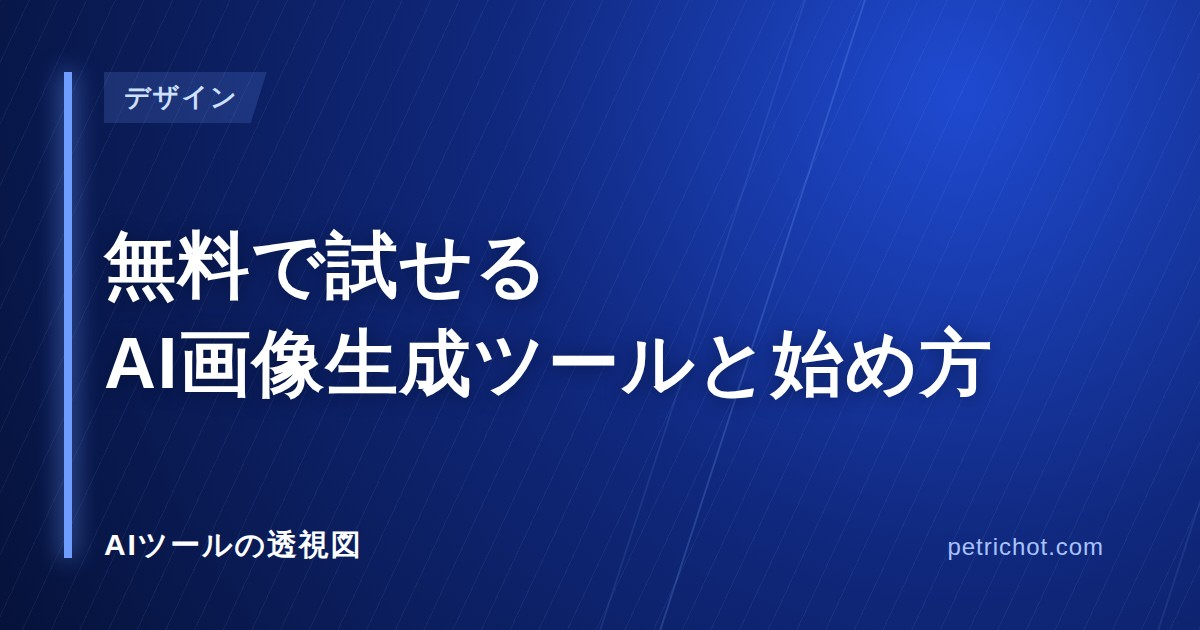
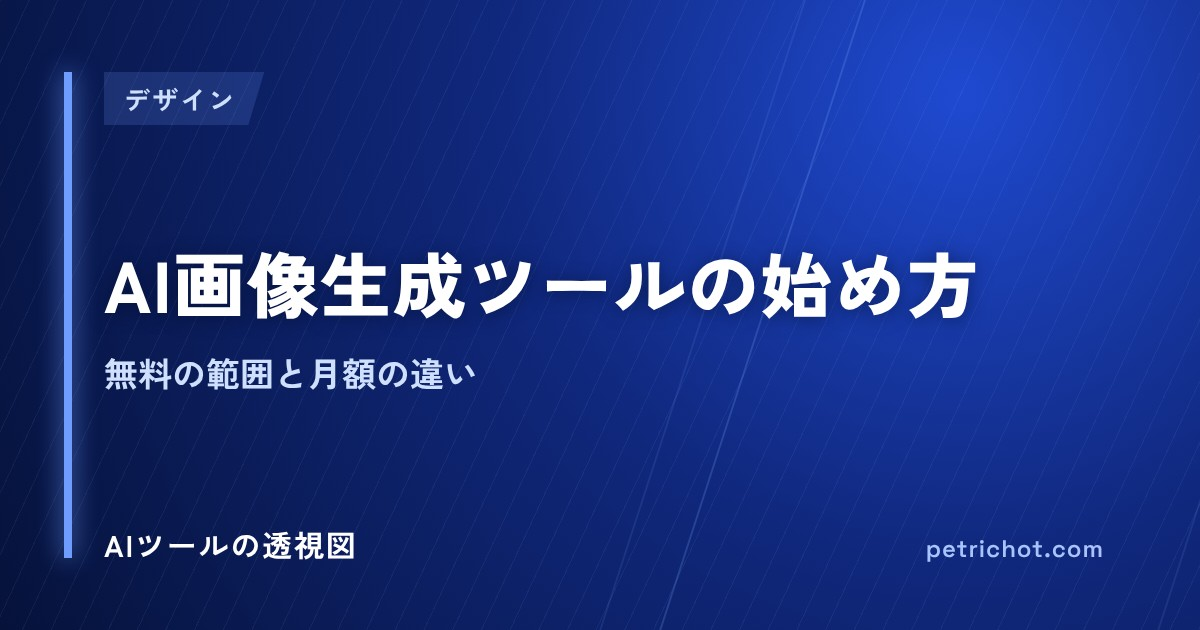
update: 「AI画像生成ツールの始め方｜無料の範囲と月額の違い」を更新(事実確認:ConoHa AI Canvasを無料で試せるツールとして扱っていた前提を修正し、タイトルも実態に合わせて変更)
旧タイトル「無料で試せるAI画像生成ツールと始め方」。slugは維持。OGP画像を作り直し、
他記事のリンクテキストも新タイトルにそろえた。

Claude-Session: https://claude.ai/code/session_01XMqZdQHkJM2VNmqCkBvbz3

diff --git a/affiliate/content/muryou-ai-gazou-seisei.md b/affiliate/content/muryou-ai-gazou-seisei.md
@@ -1,53 +1,64 @@
 ---
-title: 無料で試せるAI画像生成ツールと始め方
-description: AI画像生成を試したい初心者向けに、無料で試せるツール選びと始め方を解説。ConoHa AI CanvasやCanvaの使い方、プロンプトのコツ、注意点をカバー。
+title: AI画像生成ツールの始め方｜無料の範囲と月額の違い
+description: AI画像生成を費用を抑えて試したい初心者向けに、無料の範囲を自分で確かめる手順と、月額で使うサービスとの違い、プロンプトのコツ、注意点を整理します。
 slug: muryou-ai-gazou-seisei
 date: 2026-08-03
-updated: 2026-08-02
+updated: 2026-10-20
 category: デザイン
 tags: [AI画像生成, 無料, 初心者, ツール比較]
 ---
 
-AI技術の発展にともなって、テキストの指示(プロンプト)から画像を自動生成するツールが身近になりました。SNSで話題のAI画像生成を試してみたいけれど、お金をかけずに始めたいと考えている人も多いのではないでしょうか。この記事では、お金をかけずに試しやすいAI画像生成ツールの選び方と、始めるときの手順・注意点を整理します。
+AI技術の発展にともなって、テキストの指示(プロンプト)から画像を自動生成するツールが身近になりました。SNSで話題のAI画像生成を試してみたいけれど、お金をかけずに始めたいと考えている人も多いのではないでしょうか。この記事では、費用を抑えて試すための考え方と、「無料で試せるもの」と「月額で使うもの」を分けて確かめる手順、始めるときの注意点を整理します。
 
 ## 「無料で試せるか」を調べるときの注意点
 
-先に大事な前提をお伝えします。AI画像生成サービスの料金体系や無料で試せる範囲は、**サービス側の判断で頻繁に変わります**。「去年は無料で使えた」という情報が今も正しいとは限りません。
+先に大事な前提をお伝えします。AI画像生成サービスの料金体系や無料で試せる範囲は、**サービス側の判断で頻繁に変わります**。「去年は無料で使えた」という情報が今も正しいとは限りません。しかも、解説サイトごとに無料枠の回数が食い違っていることも珍しくありません。
 
-そのためこの記事では、金額や無料枠の回数といった具体的な条件は書きません。代わりに「初期費用をかけずに始めやすい=専用ソフトや高性能なパソコンを用意しなくても試せる」という観点でツールを紹介します。実際に無料で試せるかどうか、その条件がどうなっているかは、**必ず各公式サイトで今の情報を確認してください**。ここを確認せずに使い始めると、想定外の課金につながることがあります。
+そのためこの記事では、金額や無料枠の回数といった具体的な条件は書きません。実際に無料で試せるかどうか、その条件がどうなっているかは、**必ず各公式サイトで今の情報を確認してください**。ここを確認せずに使い始めると、想定外の課金につながることがあります。
 
-## ブラウザで始めやすいAI画像生成ツール
+確認するときは、次の3点を見ておくと迷いにくくなります。
 
-### ConoHa AI Canvas — ブラウザで手軽に始める
+- 無料のプランや体験が、公式サイトに明記されているか
+- 無料の範囲に、回数や期間の上限があるか(月ごとなのか、通算なのか)
+- 有料に切り替わるとき、自動で課金されないか
 
-ConoHa AI Canvasは、日本のレンタルサーバー企業が提供するAI画像生成サービスです。ブラウザから直接アクセスでき、インストールが不要な点が初心者向けです。
+## 無料で試せるものと、月額で使うものを分ける
 
-このツールの特徴:
-- ブラウザだけで使用可能
-- 日本語プロンプトに対応
-- 直感的なインターフェース
+この記事で取り上げる2つのサービスは、性格がかなり違います。同じ「ブラウザで使える画像生成」として並べると誤解のもとなので、ここで分けて整理します。
 
-日本語の指示文をそのまま打ち込んで画像生成の精度を試したい人に向いています。翻訳を挟まずに思いついた言葉をそのまま試せるので、プロンプトの言い回しを調整しながら詰めていく作業がしやすいのが利点です。一方で、生成した画像をそのまま資料やSNS投稿の完成形に仕上げたい場合は、文字入れやレイアウト調整を別のツールで行う必要があります。
+| 区分 | サービス | 無料での扱い |
+|---|---|---|
+| 無料の範囲がある可能性があるもの | Canva | AI画像生成を含め、無料プランで使える範囲があるとする解説は多いが、回数や期間の条件は情報源ごとに食い違っており、確認できていない |
+| 月額プランで使うもの | ConoHa AI Canvas | 時間枠つきの月額プランで提供されるクラウドサービス。公式の無料プランや無料体験は、調べた範囲では確認できていない |
 
-最新の機能や料金については、公式サイトでご確認ください。
+### Canva — 無料の範囲は公式で確かめる
 
-{{aff:conoha-ai-canvas}}
+Canvaは本来、デザインツールとして知られていますが、AI画像生成の機能も使えます。既存のテンプレートと組み合わせることで、画像生成から文字入れ・レイアウトまでを1つの画面で進められます。
 
-### Canva — テンプレートと組み合わせる
+使うメリットとして挙げられるのは次の点です。
 
-Canvaは本来、デザインツールとして知られていますが、AI画像生成機能を搭載しています。既存のテンプレートと組み合わせることで、より実践的なデザインが作成できます。
-
-Canvaを使う際のメリット:
 - デザインテンプレートが豊富
 - 生成した画像をそのままレイアウトに組み込める
 
-すでに完成形(SNS投稿、チラシ、資料の表紙など)をイメージしていて、画像生成から文字入れ・レイアウトまでを1つの画面で完結させたい人に向いています。逆に、画像生成そのものの精度や、細かいニュアンスまでプロンプトが通るかどうかを重視したい場合は、専用の生成ツールのほうが試行錯誤しやすいことがあります。
+すでに完成形(SNS投稿、チラシ、資料の表紙など)をイメージしていて、一つの画面で仕上げまで済ませたい人に向いています。逆に、画像生成そのものの精度や、細かいニュアンスまでプロンプトが通るかどうかを重視したい場合は、専用の生成ツールのほうが試行錯誤しやすいことがあります。
 
-料金体系や無料枠の詳細は、公式サイトで最新情報をご確認ください。
+無料で何回まで画像を生成できるかについては、月ごとの上限とする解説と、通算の上限とする解説があり、数字も一致していません。Canva公式のヘルプでは操作手順は確認できても、回数の上限までは確認できませんでした。そのため、この記事では回数を書きません。アプリ内の表示や公式の料金ページで、自分のアカウントの条件を確認してください。
 
 {{aff:canva}}
 
-どちらを試すか迷ったら、目的で切り分けると選びやすくなります。日本語のプロンプトをそのまま書いて画像そのものの精度を試したいならConoHa AI Canvasから、テンプレートと組み合わせて仕上げまで一括で済ませたいならCanvaから始めるのが実務的な判断基準です。どちらも無料の範囲で試せるかは変わりうるので、公式サイトで確認しながら両方触ってみて、自分の作業の流れに合うほうを残す進め方でかまいません。
+### ConoHa AI Canvas — 月額プランで使うクラウドサービス
+
+ConoHa AI Canvasは、GMOインターネットグループが提供する画像生成のクラウドサービスです。ブラウザからアクセスして使えるため、高性能なパソコンを自分で用意しなくても試せる点が特徴です。詳しい仕組みは[ConoHa AI Canvasの紹介記事](/conoha-ai-canvas-gazou-seisei/)にまとめています。
+
+ただし、料金は月額のプランに利用時間の枠が付く仕組みで提供されていると報じられており、この記事を書いた時点で、公式の無料プランや無料体験は確認できていません。会員向けのクーポンが配られた例は見つかりましたが、特定の会員向けの特典であって、誰でも使える無料枠ではありません。そのため、ConoHa AI Canvasは「無料で試せるツール」としては扱わず、「費用がかかる前提で、公式サイトでプランを確かめてから試すもの」として紹介します。
+
+最新の機能や料金、無料のお試しの有無は、公式サイトでご確認ください。
+
+{{aff:conoha-ai-canvas}}
+
+### どちらから試すか
+
+迷ったら、費用の考え方で切り分けると選びやすくなります。まず費用をかけずに画像生成の雰囲気をつかみたいなら、無料の範囲があるとされるCanvaの公式ページで、自分のアカウントで使える範囲を確かめるところからが現実的です。一方、画像生成の環境をクラウドで借りて腰を据えて試したいなら、月額の費用を理解したうえでConoHa AI Canvasを検討するのがよいでしょう。どちらも条件は変わりうるので、公式サイトで確認しながら進めてください。
 
 ## プロンプト(指示文)の書き方のコツ
 
@@ -122,11 +133,11 @@ AI画像生成の質は、プロンプトの書き方次第で大きく変わり
 
 ## まとめ
 
-AI画像生成は、専用ソフトや高性能なパソコンを用意しなくても始められるところまで来ています。ConoHa AI CanvasやCanvaのようにブラウザで使えるツールなら、思いついたときに試せます。
+AI画像生成は、専用ソフトや高性能なパソコンを用意しなくても始められるところまで来ています。ただし「無料で試せる」と言えるかどうかは、サービスごと、時期ごとに違います。Canvaのように無料の範囲があるとされるものも、回数や期間の条件は公式で確かめる必要があります。ConoHa AI Canvasのように月額プランで提供されるものは、無料で試せるとは言えない前提で考えるのが安全です。
 
-重要なのは、まずツールを使ってみることです。プロンプトを工夫したり、何度も試行錯誤することで、徐々にコツがつかめてきます。その過程で「もっと高度な機能が必要」と感じたら、より高機能なツールへのステップアップを検討するという流れが、初心者向けのアプローチです。
+重要なのは、まず公式サイトで条件を確かめ、小さく試してみることです。プロンプトを工夫したり、何度も試行錯誤することで、徐々にコツがつかめてきます。その過程で「もっと高度な機能が必要」と感じたら、より高機能なツールへのステップアップを検討するという流れが、初心者向けのアプローチです。
 
-各ツールの無料枠の詳細や最新の機能は公式サイトで確認し、自分のニーズに合ったものを選んでください。
+各ツールの無料枠や料金の詳細、最新の機能は公式サイトで確認し、自分のニーズと予算に合ったものを選んでください。
 
 画像生成の全体像や他のツールとの比較を確認したいときは、[AI画像生成ガイド](/ai-gazou-seisei-matome-guide/)にまとめて整理しています。
 

diff --git a/affiliate/content/ai-sns-toukou-sakusei.md b/affiliate/content/ai-sns-toukou-sakusei.md
@@ -93,7 +93,7 @@ AIに「いい感じの投稿を作って」と頼むと、どこの店にも当
 
 この3点を指示文の末尾に共通の「決まり文句」として入れておけば、毎回書き直す必要がありません。詳しい手順は[AI画像のテイストをそろえる方法｜複数枚で統一感を出す](/ai-gazou-tone-soroeru/)を参照してください。
 
-うまくいかなかったときの戻し方も決めておきます。思った絵にならないときは、いきなり指示文を長くせず、1つずつ条件を変えて試します。たとえば雰囲気の言葉だけを変える、構図だけを変える、といった具合です。何が効いたのかが分かるので、次回以降の指示文に活かせます。費用をかけずに試したい場合は、[無料で試せるAI画像生成ツールと始め方](/muryou-ai-gazou-seisei/)も参考になります。
+うまくいかなかったときの戻し方も決めておきます。思った絵にならないときは、いきなり指示文を長くせず、1つずつ条件を変えて試します。たとえば雰囲気の言葉だけを変える、構図だけを変える、といった具合です。何が効いたのかが分かるので、次回以降の指示文に活かせます。費用をかけずに試したい場合は、[AI画像生成ツールの始め方｜無料の範囲と月額の違い](/muryou-ai-gazou-seisei/)も参考になります。
 
 画像の生成には、ConoHa AI Canvasのように、ブラウザから使える画像生成サービスを使う方法もあります。プランや使い方は変わることがあるので、公式サイトで確認してから試してください。
 

diff --git a/affiliate/content/ai-gazou-seisei-matome-guide.md b/affiliate/content/ai-gazou-seisei-matome-guide.md
@@ -53,7 +53,7 @@ AI画像生成のツールは、大きく二つの軸で整理すると位置関
 
 ## まだ何も試したことがない人は
 
-まずは費用をかけずに画像生成の感触を掴みたいという人には、[無料で試せるAI画像生成ツールと始め方](/muryou-ai-gazou-seisei/)がおすすめです。どのツールから触ればよいか、最初のプロンプトの書き方まで含めて整理しています。ブラウザだけで完結する手軽さを重視するなら、[ConoHa AI Canvasでブラウザから画像生成](/conoha-ai-canvas-gazou-seisei/)がインストール不要で始めやすいツールとして紹介されています。
+まずは費用をかけずに画像生成の感触を掴みたいという人には、[AI画像生成ツールの始め方｜無料の範囲と月額の違い](/muryou-ai-gazou-seisei/)がおすすめです。どのツールから触ればよいか、最初のプロンプトの書き方まで含めて整理しています。ブラウザだけで完結する手軽さを重視するなら、[ConoHa AI Canvasでブラウザから画像生成](/conoha-ai-canvas-gazou-seisei/)がインストール不要で始めやすいツールとして紹介されています。
 
 {{aff:conoha-ai-canvas}}
 
